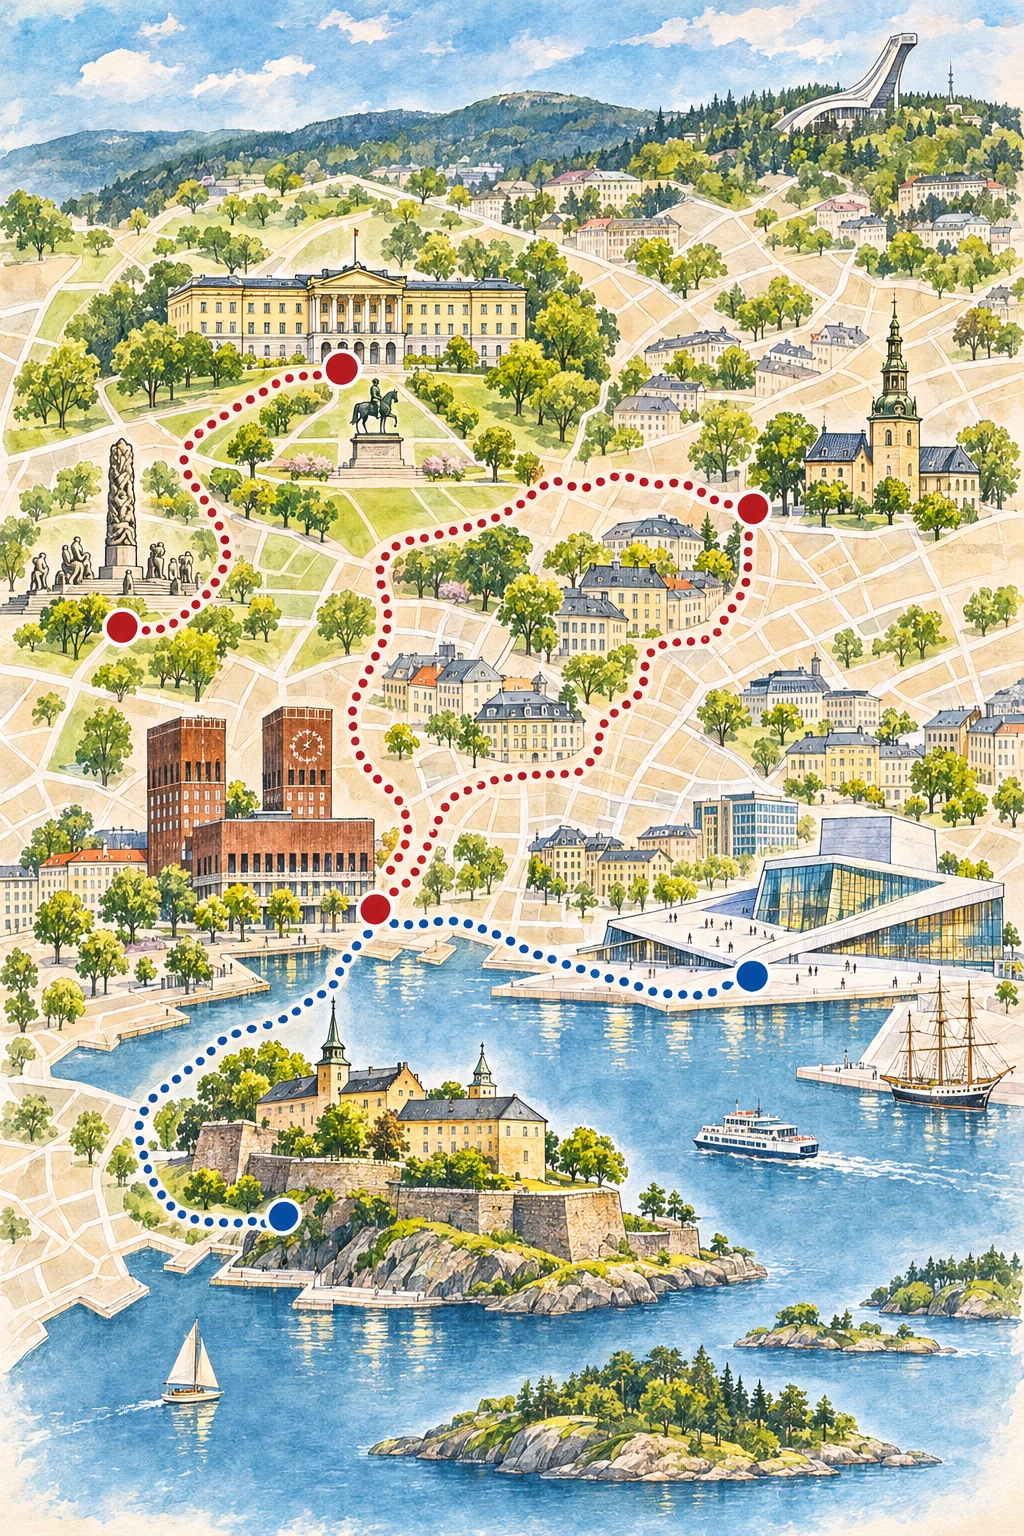
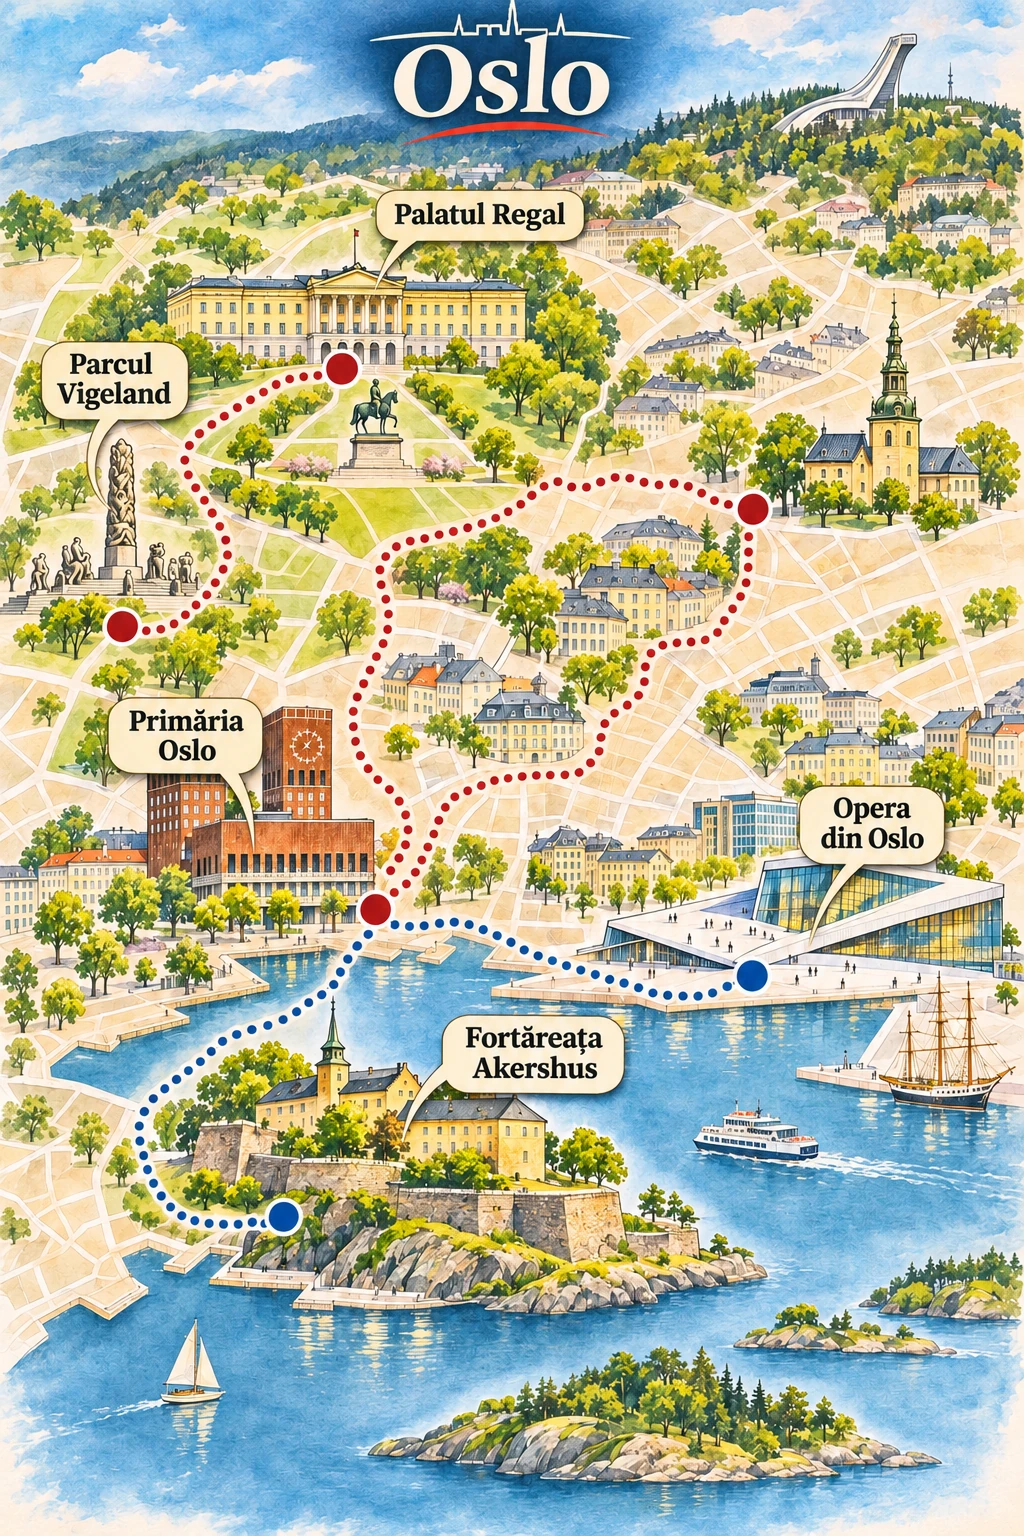
Label Sofia and Oslo guide maps

diff --git a/ILUSTRATII.md b/ILUSTRATII.md
@@ -31,15 +31,11 @@ Se adaugă numele obiectivelor direct pe hărțile existente, în stilul aprobat
 - Stockholm
 - Chișinău
 - Bratislava
-
-## De reluat
-
-- Sofia: a fost creată o variantă cu etichete, dar nu a fost publicată deoarece eticheta pentru Băile Minerale Centrale indica o clădire aflată într-o poziție geografică incorectă. Elimină sau corectează acea etichetă cu generatorul și verifică din nou harta înainte de publicare. Varianta nepublicată poate exista local la `/workspace/generated_images/exec-08ebb92f-f5d0-4887-9a39-443d51961850.png`; dacă nu este disponibilă, pornește din originalul din repository.
-- Oslo: versiunea cu etichete nu a fost generată; reia după resetarea limitei generatorului.
-- La 10 noiembrie 2026 limita generatorului de imagini a fost atinsă, cu reset estimat la ora 20:00, ora României. Continuarea programată a fost mutată la 20:05; verifică disponibilitatea reală înainte de a promite rezultate.
+- Sofia
+- Oslo
 
 Harta originală pentru Praga avea deja etichete. Celelalte orașe din `assets/guides-prague-style/` necesită în continuare verificare și prelucrare. Actualizează această listă în același commit cu fiecare lot nou.
 
-Ilustrațiile fără etichete sunt păstrate în istoricul Git: pentru Roma și Barcelona folosește fișierul de la commitul `14f016a`, iar pentru Paris, Londra, Lisabona, Berlin și Bruxelles de la `508e691`. Pentru Budapesta, Atena, Veneția, Amsterdam, Viena, Milano, Madrid, Bologna, Lyon, Porto, Varșovia, Copenhaga, Edinburgh, Bruges, Köln, Dublin, Cracovia, Stockholm, Chișinău și Bratislava se pot folosi originalele de la `48efdd5`. Copii locale sunt în `/workspace/guide-batch/original-illustrations` când acel director este disponibil. Păstrează imaginile originale pentru quiz.
+Ilustrațiile fără etichete sunt păstrate în istoricul Git: pentru Roma și Barcelona folosește fișierul de la commitul `14f016a`, iar pentru Paris, Londra, Lisabona, Berlin și Bruxelles de la `508e691`. Pentru Budapesta, Atena, Veneția, Amsterdam, Viena, Milano, Madrid, Bologna, Lyon, Porto, Varșovia, Copenhaga, Edinburgh, Bruges, Köln, Dublin, Cracovia, Stockholm, Chișinău, Bratislava, Sofia și Oslo se pot folosi originalele de la `48efdd5`. Copii locale sunt în `/workspace/guide-batch/original-illustrations` când acel director este disponibil. Păstrează imaginile originale pentru quiz.
 
 Nu modifica funcționalitatea de căutare a zborurilor în cadrul acestei activități.
